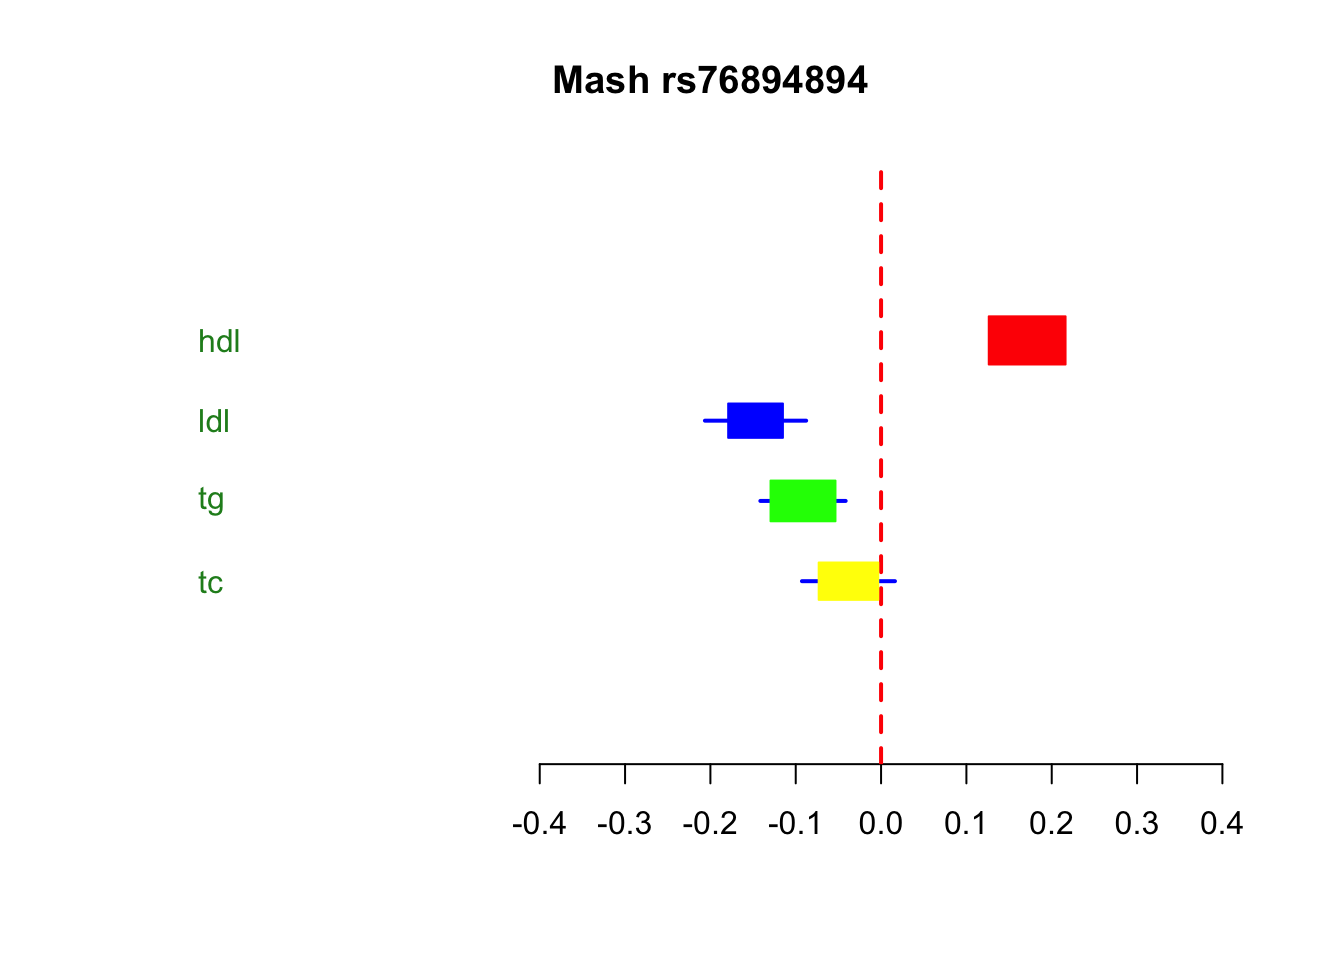
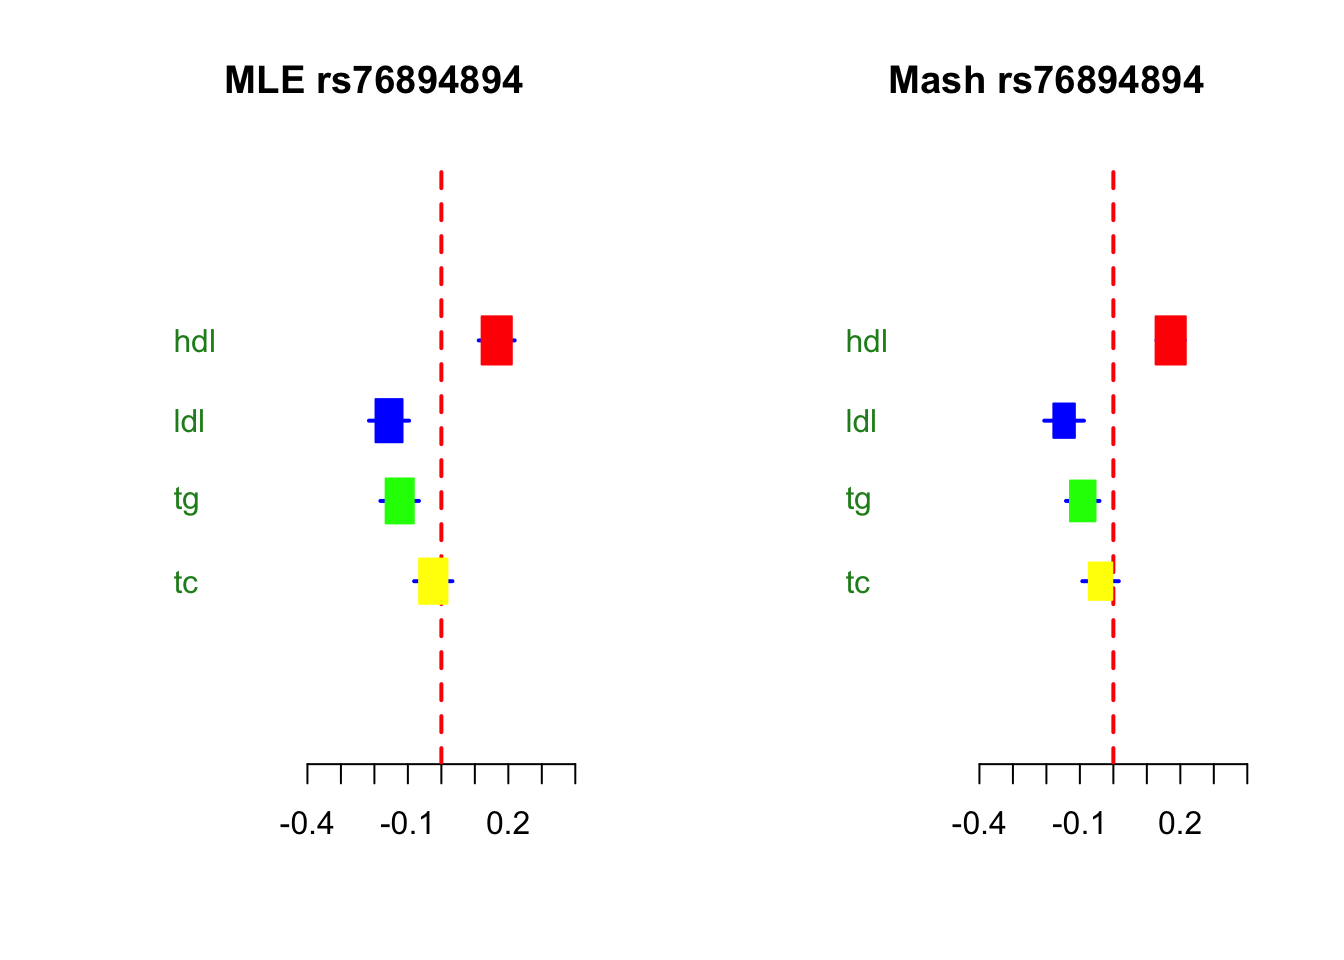
Update

diff --git a/docs/looking_at_significance.html b/docs/looking_at_significance.html
@@ -337,7 +337,7 @@ div.section {
 <div class="tab-content">
 <div id="summary" class="tab-pane fade in active">
 <p>
-<strong>Last updated:</strong> 2019-10-06
+<strong>Last updated:</strong> 2019-10-07
 </p>
 <p>
 <strong>Checks:</strong> <span class="glyphicon glyphicon-ok text-success" aria-hidden="true"></span> 4 <span class="glyphicon glyphicon-exclamation-sign text-danger" aria-hidden="true"></span> 3
@@ -423,6 +423,9 @@ unnamed-chunk-1
 <li>
 unnamed-chunk-2
 </li>
+<li>
+unnamed-chunk-3
+</li>
 </ul>
 <p>To ensure reproducibility of the results, delete the cache directory <code>looking_at_significance_cache</code> and re-run the analysis. To have workflowr automatically delete the cache directory prior to building the file, set <code>delete_cache = TRUE</code> when running <code>wflow_build()</code> or <code>wflow_publish()</code>.</p>
 </div>
@@ -459,6 +462,14 @@ relative
 analysis
 </td>
 </tr>
+<tr>
+<td style="text-align:left;">
+~/lipids_mvp/data/merged_z.txt
+</td>
+<td style="text-align:left;">
+data/merged_z.txt
+</td>
+</tr>
 </tbody>
 </table>
 </div>
@@ -467,10 +478,10 @@ analysis
 <div class="panel panel-default">
 <div class="panel-heading">
 <p class="panel-title">
-<a data-toggle="collapse" data-parent="#workflowr-checks" href="#strongRepositoryversionstrongahrefhttpsgithubcomsurbutlipidsmvptree079589bbab8b0f2b017b6dc68671df3defa877bctargetblank079589ba"> <span class="glyphicon glyphicon-ok text-success" aria-hidden="true"></span> <strong>Repository version:</strong> <a href="https://github.com/surbut/lipids_mvp/tree/079589bbab8b0f2b017b6dc68671df3defa877bc" target="_blank">079589b</a> </a>
+<a data-toggle="collapse" data-parent="#workflowr-checks" href="#strongRepositoryversionstrongahrefhttpsgithubcomsurbutlipidsmvptree3f855862038d1fa59bbebf795d9a084e6b5e6020targetblank3f85586a"> <span class="glyphicon glyphicon-ok text-success" aria-hidden="true"></span> <strong>Repository version:</strong> <a href="https://github.com/surbut/lipids_mvp/tree/3f855862038d1fa59bbebf795d9a084e6b5e6020" target="_blank">3f85586</a> </a>
 </p>
 </div>
[2 lines of base64/hex data omitted]
 <div class="panel-body">
 <p>
 Great! You are using Git for version control. Tracking code development and connecting the code version to the results is critical for reproducibility. The version displayed above was the version of the Git repository at the time these results were generated. <br><br> Note that you need to be careful to ensure that all relevant files for the analysis have been committed to Git prior to generating the results (you can use <code>wflow_publish</code> or <code>wflow_git_commit</code>). workflowr only checks the R Markdown file, but you know if there are other scripts or data files that it depends on. Below is the status of the Git repository when the results were generated:
@@ -482,6 +493,7 @@ Ignored files:
     Ignored:    analysis/.DS_Store
     Ignored:    analysis/.RData
     Ignored:    analysis/.Rhistory
+    Ignored:    analysis/figure/
     Ignored:    analysis/looking_at_significance_cache/
     Ignored:    analysis/workingwithdata_cache/
     Ignored:    data/.DS_Store
@@ -489,18 +501,19 @@ Ignored files:
     Ignored:    data/EDcov.Rds
     Ignored:    data/ash.rds
     Ignored:    data/gtexcolors.txt
+    Ignored:    data/hdl_max.txt
+    Ignored:    data/ldl_max.txt
     Ignored:    data/mashcomplete.rds
     Ignored:    data/mashcomplete.rds.zip
     Ignored:    data/max_ld_block.txt
     Ignored:    data/merged_betas.txt
+    Ignored:    data/merged_p.txt
     Ignored:    data/merged_se.txt
     Ignored:    data/merged_z.txt
+    Ignored:    data/tc_max.txt
+    Ignored:    data/tg_max.txt
     Ignored:    data/znew.txt
     Ignored:    docs/.DS_Store
-
-Untracked files:
-    Untracked:  analysis/looking_at_significance.knit.md
-    Untracked:  analysis/looking_at_significance.utf8.md
 
 Unstaged changes:
     Modified:   analysis/looking_at_significance.Rmd
@@ -542,6 +555,57 @@ Message
 </tr>
 </thead>
 <tbody>
+<tr>
+<td>
+Rmd
+</td>
+<td>
+<a href="https://github.com/surbut/lipids_mvp/blob/d8023e7e317668a6f82201b9d20dd176cbefcdaf/analysis/looking_at_significance.Rmd" target="_blank">d8023e7</a>
+</td>
+<td>
+Sarah Urbut
+</td>
+<td>
+2019-10-07
+</td>
+<td>
+Update
+</td>
+</tr>
+<tr>
+<td>
+Rmd
+</td>
+<td>
+<a href="https://github.com/surbut/lipids_mvp/blob/3aa4ecc1d68c1349f6fca652c62c32401371a53d/analysis/looking_at_significance.Rmd" target="_blank">3aa4ecc</a>
+</td>
+<td>
+Sarah Urbut
+</td>
+<td>
+2019-10-07
+</td>
+<td>
+Update
+</td>
+</tr>
+<tr>
+<td>
+html
+</td>
+<td>
+<a href="https://rawcdn.githack.com/surbut/lipids_mvp/3aa4ecc1d68c1349f6fca652c62c32401371a53d/docs/looking_at_significance.html" target="_blank">3aa4ecc</a>
+</td>
+<td>
+Sarah Urbut
+</td>
+<td>
+2019-10-07
+</td>
+<td>
+Update
+</td>
+</tr>
 <tr>
 <td>
 Rmd
@@ -594,7 +658,7 @@ z=read.table(&quot;../data/merged_z.txt&quot;)
 pm=mash$result$PosteriorMean
 pv=mash$result$PosteriorSD
 lfsr=mash$result$lfsr
-
+rownames(lfsr)=bf$SNP_hg18[1:2437099]
 betas=bf[1:2437099,c(&quot;hdl&quot;,&quot;ldl&quot;,&quot;tg&quot;,&quot;tc&quot;)];rownames(betas)=bf$SNP_hg18[1:2437099]
 se=sf[1:2437099,c(&quot;hdl&quot;,&quot;ldl&quot;,&quot;tg&quot;,&quot;tc&quot;)];rownames(se)=sf$SNP_hg18[1:2437099]
 
@@ -682,10 +746,10 @@ chr7:14231090  0.0075  0.1367  0.1098  0.1617
 chr19:50091184 0.0942 -0.1735 -0.1095 -0.1592</code></pre>
 <pre class="r"><code>j=which(rownames(betas)==rownames(tg)[1])
 
-# title=paste(&quot;MLE&quot;,bf[j,&quot;rsid&quot;])
-# par(mfrow=c(1,2))
-# metaplot(as.numeric(betas[j,]),as.numeric(se[j,]),colors=meta.colors(box=c(&quot;red&quot;,&quot;blue&quot;,&quot;green&quot;,&quot;yellow&quot;),lines=&quot;blue&quot;, zero=&quot;red&quot;, summary=&quot;orange&quot;,text=&quot;forestgreen&quot;),xlim=c(-0.4,0.4),labels = colnames(shrunk.beta),xlab = &quot;&quot;,ylab=&quot;&quot;)
-# title(title)
+title=paste(&quot;MLE&quot;,bf[j,&quot;rsid&quot;])
+par(mfrow=c(1,2))
+metaplot(as.numeric(betas[j,]),as.numeric(se[j,]),colors=meta.colors(box=c(&quot;red&quot;,&quot;blue&quot;,&quot;green&quot;,&quot;yellow&quot;),lines=&quot;blue&quot;, zero=&quot;red&quot;, summary=&quot;orange&quot;,text=&quot;forestgreen&quot;),xlim=c(-0.4,0.4),labels = colnames(shrunk.beta),xlab = &quot;&quot;,ylab=&quot;&quot;)
+title(title)
 
 
 title=paste(&quot;Mash&quot;,bf[j,&quot;rsid&quot;])
@@ -736,6 +800,114 @@ Sarah Urbut
 <pre class="r"><code>lfsr[j,]</code></pre>
 <pre><code>         hdl          ldl           tg           tc 
 4.298489e-16 6.291464e-07 1.624161e-04 8.468237e-02 </code></pre>
+<p>Let’s tabulate bu LD block</p>
+<pre class="r"><code>z=read.table(&quot;~/lipids_mvp/data/merged_z.txt&quot;)
+
+bed=read.table(&quot;~/Downloads/ld_chunk.bed&quot;)
+
+z=z[1:2437099,]### last 3 are rsIDs from mislabeled columns
+library(&quot;reshape&quot;)
+df=transform(z, foo = colsplit(z$SNP_hg18, split = &quot;\\:&quot;, names = c(&#39;Chr&#39;, &#39;Pos&#39;)))
+
+t=transform(rownames(lfsr), foo = colsplit(rownames(lfsr), split = &quot;\\:&quot;, names = c(&#39;Chr&#39;, &#39;Pos&#39;)))
+
+lfsr.mash=data.frame(t$foo.Chr,t$foo.Pos,lfsr,stringsAsFactors = T)
+
+max_block=data.frame(matrix(ncol = 12,nrow=nrow(bed)))
+colnames(lfsr.mash)=c(&quot;chr&quot;,&quot;pos&quot;,&quot;hdl&quot;,&quot;ldl&quot;,&quot;tg&quot;,&quot;tc&quot;)
+for(i in 1:nrow(bed)){
+ 
+  chr=bed[i,1]
+  start=bed[i,2]
+  stop=bed[i,3]
+  in_chrom=lfsr.mash[lfsr.mash$chr==chr,]
+  goodguys=in_chrom[in_chrom$pos&gt;start&amp;in_chrom$pos&lt;stop,]
+
+ if(nrow(goodguys)&gt;0) {
+    max_block[i,1]=goodguys[which.min(abs(goodguys[,&quot;hdl&quot;])),&quot;hdl&quot;]
+   max_block[i,2]=as.character(goodguys[which.min(abs(goodguys[,&quot;hdl&quot;])),&quot;chr&quot;])
+    max_block[i,3]=as.character(goodguys[which.min(abs(goodguys[,&quot;hdl&quot;])),&quot;pos&quot;])
+    
+   max_block[i,4]=goodguys[which.min(abs(goodguys[,&quot;ldl&quot;])),&quot;ldl&quot;]
+      max_block[i,5]=as.character(goodguys[which.min(abs(goodguys[,&quot;ldl&quot;])),&quot;chr&quot;])
+    max_block[i,6]=as.character(goodguys[which.min(abs(goodguys[,&quot;ldl&quot;])),&quot;pos&quot;])
+    
+      max_block[i,7]=goodguys[which.min(abs(goodguys[,&quot;tg&quot;])),&quot;tg&quot;]
+      max_block[i,8]=as.character(goodguys[which.min(abs(goodguys[,&quot;tg&quot;])),&quot;chr&quot;])
+    max_block[i,9]=as.character(goodguys[which.min(abs(goodguys[,&quot;tg&quot;])),&quot;pos&quot;])
+    
+ max_block[i,10]=goodguys[which.min(abs(goodguys[,&quot;tc&quot;])),&quot;tc&quot;]
+      max_block[i,11]=as.character(goodguys[which.min(abs(goodguys[,&quot;tc&quot;])),&quot;chr&quot;])
+    max_block[i,12]=as.character(goodguys[which.min(abs(goodguys[,&quot;tc&quot;])),&quot;pos&quot;])
+    } else {
+      z_good=rep(0,ncol(max_block))
+    }
+}
+
+colnames(max_block)=c(&quot;hdl&quot;,&quot;chr&quot;,&quot;pos&quot;,&quot;ldl&quot;,&quot;chros&quot;,&quot;pos&quot;,&quot;tg&quot;,&quot;chr&quot;,&quot;pos&quot;,&quot;tc&quot;,&quot;chr&quot;,&quot;pos&quot;)
+
+max_block=na.omit(max_block)
+
+hdl=max_block[max_block$hdl&lt;0.05,c(1:3)]
+
+ldl=max_block[max_block$ldl&lt;0.05,c(4:6)]
+
+tg=max_block[max_block$tg&lt;0.05,c(7:9)]
+
+tc=max_block[max_block$tc&lt;0.05,c(10:12)]
+
+write.table(hdl,&quot;../data/hdl_max.txt&quot;)
+
+
+write.table(ldl,&quot;../data/ldl_max.txt&quot;)
+
+write.table(tg,&quot;../data/tg_max.txt&quot;)
+
+write.table(tc,&quot;../data/tc_max.txt&quot;)</code></pre>
+<p>You can see the top snps per condition in hdl,ldl, tg and tc respectively:</p>
+<pre class="r"><code>setwd(&quot;~/lipids_mvp/analysis/&quot;)
+
+hdl=read.table(&quot;../data/hdl_max.txt&quot;)
+
+
+ldl=read.table(&quot;../data/ldl_max.txt&quot;)
+
+tg=read.table(&quot;../data/tg_max.txt&quot;)
+
+tc=read.table(&quot;../data/tc_max.txt&quot;)
+
+head(hdl)</code></pre>
+<pre><code>           hdl  chr      pos
+1  0.004820571 chr1  1864186
+3  0.018109771 chr1  3673967
+6  0.029122581 chr1  9171464
+8  0.023507666 chr1 11752767
+9  0.027492121 chr1 11785644
+10 0.047712163 chr1 13969007</code></pre>
+<pre class="r"><code>head(ldl)</code></pre>
+<pre><code>            ldl chros      pos
+9  3.045868e-02  chr1 11792828
+11 3.170071e-02  chr1 15681459
+16 1.884265e-04  chr1 23638820
+17 1.640371e-02  chr1 25401625
+18 8.696752e-14  chr1 25633507
+19 9.618922e-03  chr1 28171538</code></pre>
+<pre class="r"><code>head(tg)</code></pre>
+<pre><code>           tg  chr      pos
+1  0.02537673 chr1  1864186
+3  0.01965191 chr1  3673967
+6  0.03880887 chr1  9171464
+8  0.02468262 chr1 11752767
+9  0.02699725 chr1 11792828
+10 0.04821747 chr1 13969007</code></pre>
+<pre class="r"><code>head(tc)</code></pre>
+<pre><code>             tc  chr      pos
+9  3.044234e-02 chr1 11792828
+11 3.179709e-02 chr1 15681459
+16 1.104899e-06 chr1 23638820
+17 1.643571e-02 chr1 25401625
+18 8.733627e-14 chr1 25633507
+19 1.478879e-04 chr1 28217567</code></pre>
 <br>
 <p>
 <button type="button" class="btn btn-default btn-workflowr btn-workflowr-sessioninfo" data-toggle="collapse" data-target="#workflowr-sessioninfo" style="display: block;">
